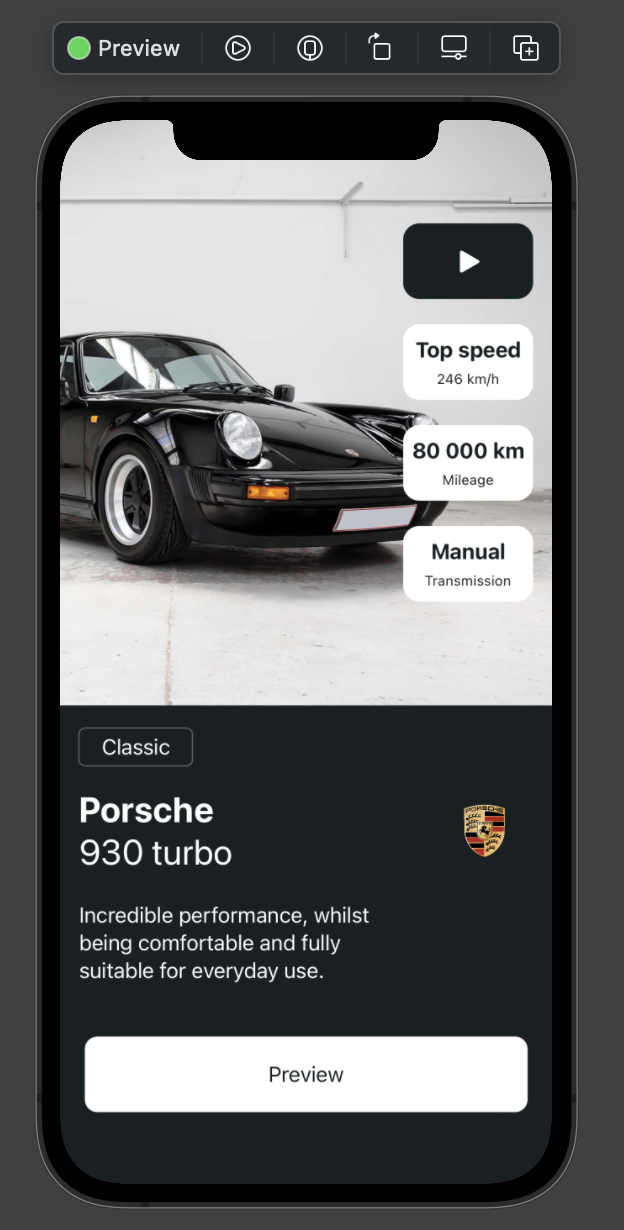
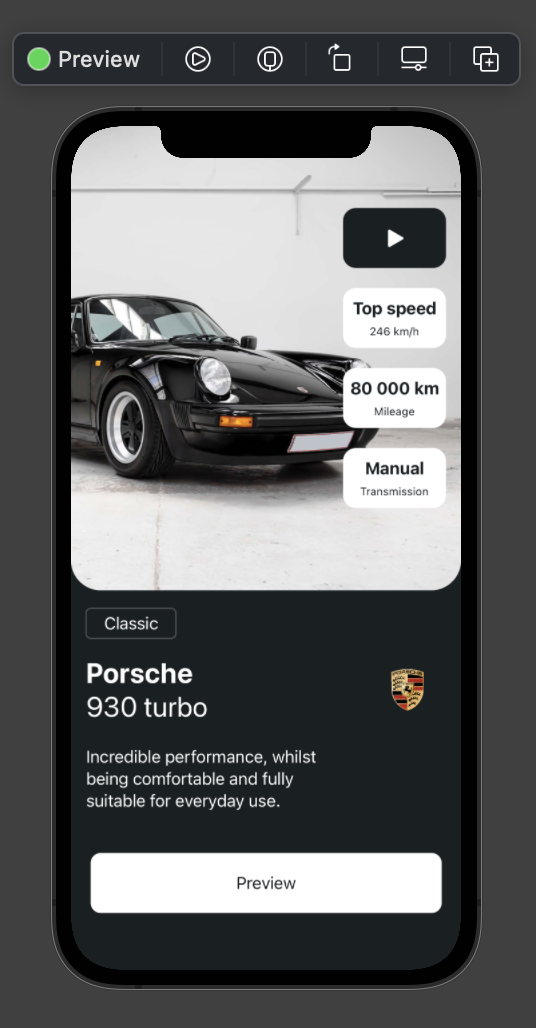
initial upload

diff --git a/porsche930Turbo/porsche930Turbo/ContentView.swift b/porsche930Turbo/porsche930Turbo/ContentView.swift
@@ -160,6 +160,7 @@ struct DetailsPageTopComponent: View{
         }
         .frame(width: UIScreen.main.bounds.width, height: UIScreen.main.bounds.height*0.55)
         .background(Color.white)
+        .cornerRadius(30)
     }
 }
 

diff --git a/ReadMe.md b/ReadMe.md
@@ -4,5 +4,5 @@
 **App Screenshots**
 
 
-<img src='./screenshot.png' width='1000px' />
+<img src='./screenshot0.png' width='1000px' />
 <img src='./screenshot1.png' width='200px' />
